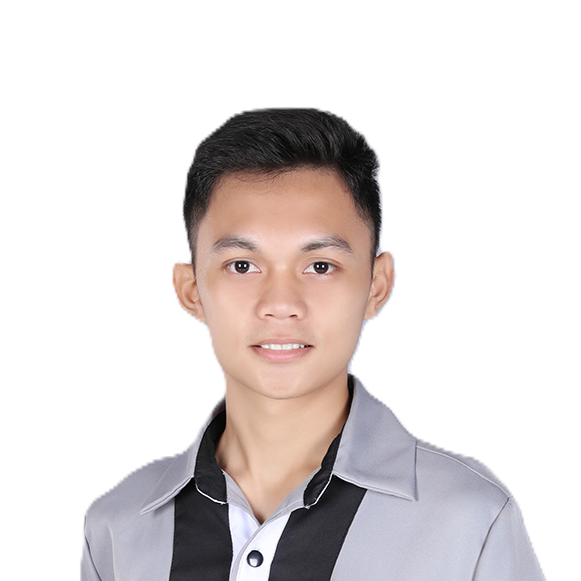
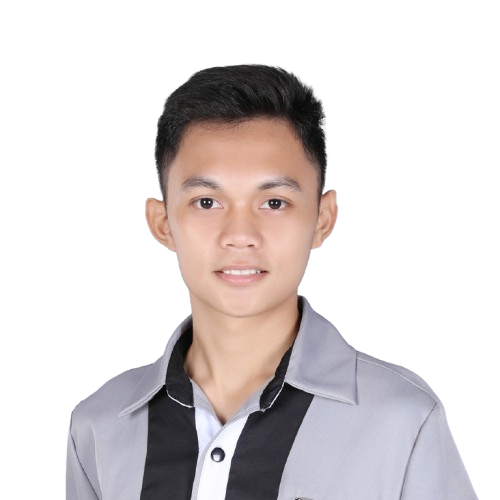
✨ feat: implemented reusable header section

Changed region(s): [[0.12, 0.12, 0.96, 1.0]]

diff --git a/src/components/Hero.jsx b/src/components/Hero.jsx
@@ -1,4 +1,3 @@
-import React from "react";
 import { Button } from "@/components/ui/button";
 import { images } from "@/constants/images";
 import { FileText, Mail, ArrowUpRight } from "lucide-react";
@@ -22,7 +21,10 @@ const socials = [
 
 export function Hero() {
   return (
-    <div className="relative w-full pt-6 md:pt-10 pb-10 scroll-mt-24 md:scroll-mt-28" id="home">
+    <div
+      className="relative w-full flex flex-col justify-center gap-4 md:gap-3 py-8 md:py-6 md:min-h-[calc(100vh-4rem)] scroll-mt-24 md:scroll-mt-28"
+      id="home"
+    >
       {/* Status badge */}
       <div className="flex justify-center md:justify-start">
         <div className="inline-flex items-center gap-2 rounded-full border border-border bg-background/60 backdrop-blur px-4 py-1.5 text-xs md:text-sm font-medium shadow-sm">
@@ -35,8 +37,8 @@ export function Hero() {
       </div>
 
       {/* Big split name */}
-      <div className="relative mt-4 md:mt-6 text-center md:text-left leading-[0.95]">
-        <h1 className="font-sans font-extrabold uppercase tracking-tight text-[16vw] sm:text-[13vw] md:text-[7.2vw] xl:text-[6.6vw]">
+      <div className="relative text-center md:text-left leading-[0.95]">
+        <h1 className="font-sans font-extrabold uppercase tracking-tight text-5xl sm:text-6xl md:text-7xl lg:text-8xl">
           <span
             className="block md:inline text-transparent"
             style={{
@@ -51,18 +53,20 @@ export function Hero() {
         </h1>
       </div>
 
-      {/* Portrait — real transparent cutout, bleeds to the bottom like the reference */}
-      <div className="relative mx-auto md:mx-0 md:ml-[27%] xl:ml-[29%] mt-0 md:-mt-6 xl:-mt-8 w-[62%] sm:w-[48%] md:w-[36%] xl:w-[30%]">
-        <div className="absolute inset-x-0 bottom-0 -z-10 mx-auto h-2/3 w-2/3 rounded-full bg-primary/10 blur-3xl" />
+      {/* Portrait — real transparent cutout, bleeds to the bottom like the reference.
+          Sized by height (not width) so it's centered predictably and its footprint
+          is bounded, keeping the whole hero within one viewport. */}
+      <div className="relative mx-auto self-center w-fit -mt-1 md:-mt-4 h-[190px] sm:h-[240px] md:h-[300px] lg:h-[340px] xl:h-[380px]">
+        <div className="absolute inset-0 -z-10 scale-110 rounded-full bg-primary/10 blur-3xl" />
         <img
           src={images.hero_image}
           alt={`${hero.firstName} ${hero.lastName}`}
-          className="w-full h-auto select-none drop-shadow-2xl"
+          className="h-full w-auto select-none drop-shadow-2xl"
         />
       </div>
 
       {/* Role + tagline + CTAs / Socials */}
-      <div className="relative z-10 -mt-4 md:mt-2 flex flex-col md:flex-row items-center md:items-end justify-between gap-8">
+      <div className="relative z-10 flex flex-col md:flex-row items-center md:items-end justify-between gap-6 md:gap-8">
         <div className="max-w-sm text-center md:text-left">
           <h2 className="text-lg md:text-xl font-semibold">{hero.role}</h2>
           <p className="mt-2 text-sm md:text-base text-muted-foreground text-pretty">

diff --git a/src/components/ui/section-header.jsx b/src/components/ui/section-header.jsx
@@ -1,0 +1,61 @@
+import React from "react";
+import { cn } from "@/lib/utils";
+
+/**
+ * Reusable section header used across sections that need the
+ * "big faint background label + /Title" layout, e.g. the Projects section.
+ *
+ * <SectionHeader
+ *   backgroundText="Portfolio"
+ *   title="Selected Work"
+ *   subtitle="Here are some of the projects I have worked on."
+ * />
+ */
+export function SectionHeader({
+  backgroundText,
+  title,
+  subtitle,
+  align = "center",
+  className,
+}) {
+  return (
+    <div
+      className={cn(
+        "relative pt-8 pb-2 md:pt-12",
+        align === "center" ? "text-center" : "text-start",
+        className
+      )}
+    >
+      {backgroundText && (
+        <span
+          aria-hidden="true"
+          className={cn(
+            "pointer-events-none select-none absolute inset-x-0 -top-2 md:-top-6",
+            "text-[15vw] md:text-[6.5vw] font-extrabold uppercase tracking-tight leading-none",
+            "text-foreground/[0.04] whitespace-nowrap overflow-hidden",
+            align === "center" ? "text-center" : "text-start"
+          )}
+        >
+          {backgroundText}
+        </span>
+      )}
+
+      <div className="relative">
+        <h2 className="text-2xl sm:text-3xl md:text-4xl font-extrabold uppercase tracking-tight">
+          <span className="text-muted-foreground/60">/</span>
+          {title}
+        </h2>
+        {subtitle && (
+          <p
+            className={cn(
+              "mt-3 text-sm md:text-base text-muted-foreground text-pretty",
+              align === "center" ? "mx-auto max-w-xl" : "max-w-xl"
+            )}
+          >
+            {subtitle}
+          </p>
+        )}
+      </div>
+    </div>
+  );
+}

diff --git a/src/pages/index.jsx b/src/pages/index.jsx
@@ -1,4 +1,3 @@
-import { BackgroundBeams } from "@/components/ui/background-beams";
 import { TechStack } from "@/components/TechStack";
 import { AboutSection } from "@/components/AboutSection";
 import { Container } from "@/components/ui/container";
@@ -6,7 +5,6 @@ import { Projects } from "@/components/Projects";
 import { Experience } from "@/components/Experience";
 import { Hero } from "@/components/Hero";
 import { useTheme } from "@/components/theme/theme-provider";
-import { BackgroundBeamsLight } from "@/components/ui/background-beams-light";
 import { MoonIcon, SunIcon } from "@heroicons/react/24/solid";
 
 export default function Home() {
@@ -40,28 +38,28 @@ export default function Home() {
           </button>
         </div>
 
-        <Container className="mt-6 md:mt-0 lg:px-12 xl:px-16 md:min-h-screen flex items-center">
+        <Container className="mt-0 lg:px-12 xl:px-16 ">
           <Hero />
         </Container>
-        <Container>
+        <Container className="lg:px-12 xl:px-16 ">
           <AboutSection />
         </Container>
-        <Container>
+        <Container className="lg:px-12 xl:px-16 ">
           <TechStack />
         </Container>
-        <Container>
+        <Container className="lg:px-12 xl:px-16 ">
           <Projects />
         </Container>
-        <Container>
+        <Container className="lg:px-12 xl:px-16 ">
           <Experience />
         </Container>
       </div>
 
-      {isDark ? (
+      {/* {isDark ? (
         <BackgroundBeams className="hidden md:flex" />
       ) : (
         <BackgroundBeamsLight className="hidden md:flex" />
-      )}
+      )} */}
     </div>
   );
 }

diff --git a/src/components/Projects.jsx b/src/components/Projects.jsx
@@ -1,7 +1,6 @@
-import React, { useEffect, useState } from "react";
 import { ProjectCard } from "./ui/project-card";
+import { SectionHeader } from "./ui/section-header";
 import { images } from "@/constants/images";
-import { cn } from "@/lib/utils";
 
 export const projects = [
   // {
@@ -61,9 +60,12 @@ export const projects = [
 export function Projects() {
   return (
     <div className="scroll-mt-24 md:scroll-mt-28" id="projects">
-      <h1 className="text-start text-lg font-semibold mb-5 ">Projects</h1>
-      <h2>Here are some of the projects I have worked on:</h2>
-      <div className="mt-5 flex flex-col  gap-5">
+      <SectionHeader
+        backgroundText="Portfolio"
+        title="Selected Work"
+        subtitle="Here are some of the projects I have worked on."
+      />
+      <div className="mt-8 flex flex-col  gap-5">
         {projects.map((item, index) => (
           <ProjectCard
             key={index}

diff --git a/src/components/Experience.jsx b/src/components/Experience.jsx
@@ -1,4 +1,5 @@
-import React from "react";
+
+import { SectionHeader } from "./ui/section-header";
 
 export const experience = [
   // {
@@ -36,7 +37,11 @@ export const experience = [
 export const Experience = () => {
   return (
     <div className="text-primary scroll-mt-24 md:scroll-mt-28" id="experience">
-      <h1 className="text-start text-lg font-semibold mb-5">Experience</h1>
+   <SectionHeader
+        backgroundText="Portfolio"
+        title="Experience"
+        subtitle="+1 year of experience"
+      />
 
       <div className="relative space-y-8">
         {/* The Vertical Line - Centered relative to the 12px (size-3) dots */}

diff --git a/src/constants/images.js b/src/constants/images.js
@@ -11,7 +11,7 @@ import timetap_preview1 from "@/assets/projects/timetap-preview.png"
 import timetap_preview2 from "@/assets/projects/timetap-preview2.png"
 import timetap_preview3 from "@/assets/projects/timetap-preview3.png"
 // TODO: swap for the new cutout/portrait photo once ready — used as the Hero placeholder
-import hero_image from "@/assets/japinan-profile-crop.png";
+import hero_image from "@/assets/japinan-profile.png";
 import rgan_website from "@/assets/projects/rgan-website.png"
 import rgan_website2 from "@/assets/projects/rgan-website2.png"
 import rgan_website3 from "@/assets/projects/rgan-website3.png"

diff --git a/src/components/AboutSection.jsx b/src/components/AboutSection.jsx
@@ -1,4 +1,3 @@
-import React from "react";
 const aboutMe = "Passionate about web development with hands-on experience in PHP, MySQL, and the MERN stack. Skilled in building scalable and efficient RESTful APIs, optimizing database structures, enhancing system performance, and developing secure, high-quality web applications. Always eager to learn and improve in fast-paced development environments."
 export function AboutSection() {
   return (

diff --git a/src/main.jsx b/src/main.jsx
@@ -1,5 +1,3 @@
-import { StrictMode } from "react";
-import { createRoot } from "react-dom/client";
 import App from "./App.jsx";
 import ReactDOM from "react-dom/client";
 import { BrowserRouter } from "react-router-dom";

diff --git a/src/components/NavMain.jsx b/src/components/NavMain.jsx
@@ -1,4 +1,3 @@
-import React from "react";
 import { Button } from "@/components/ui/button";
 import { Container } from "@/components/ui/container";
 import { MoonIcon, SunIcon } from "@heroicons/react/24/solid";
